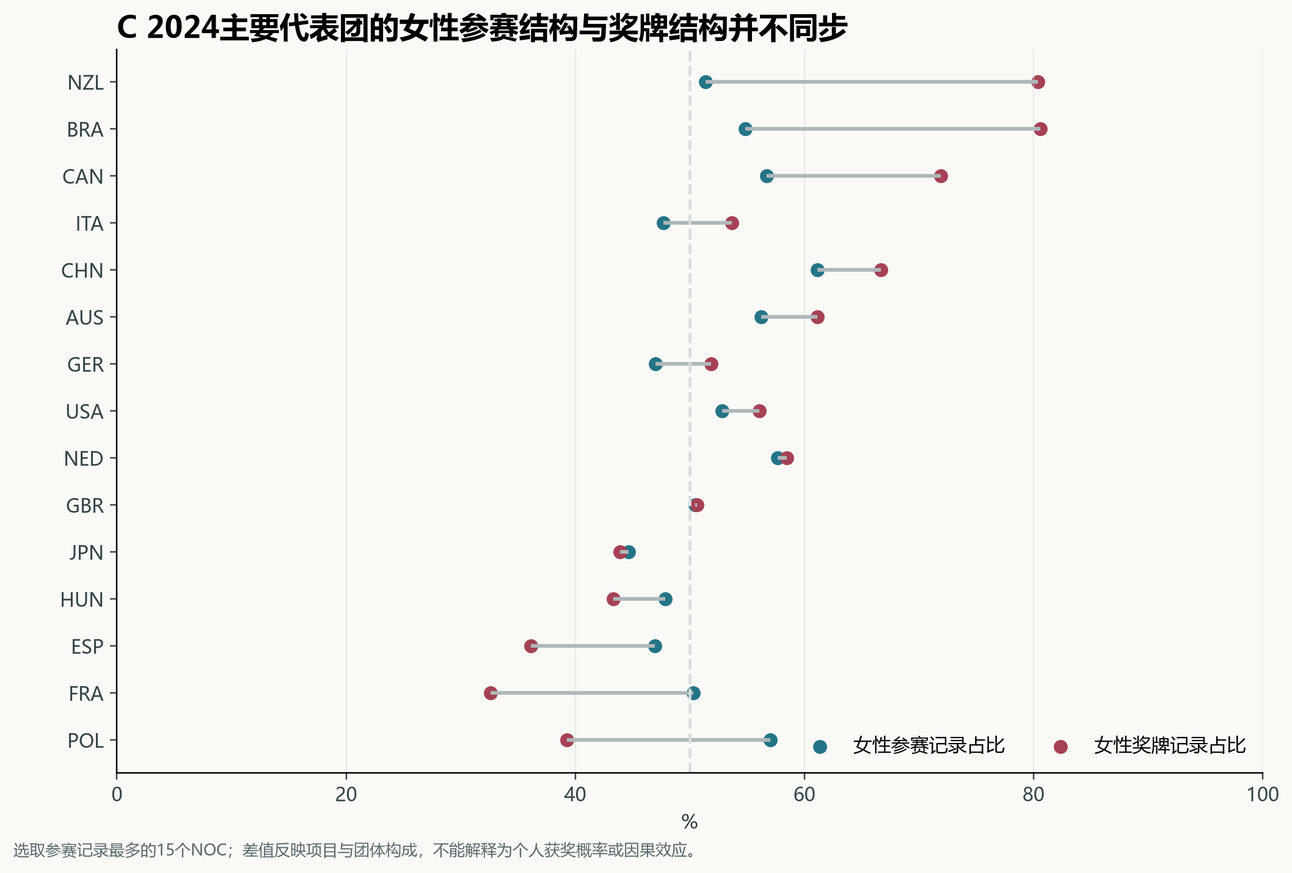
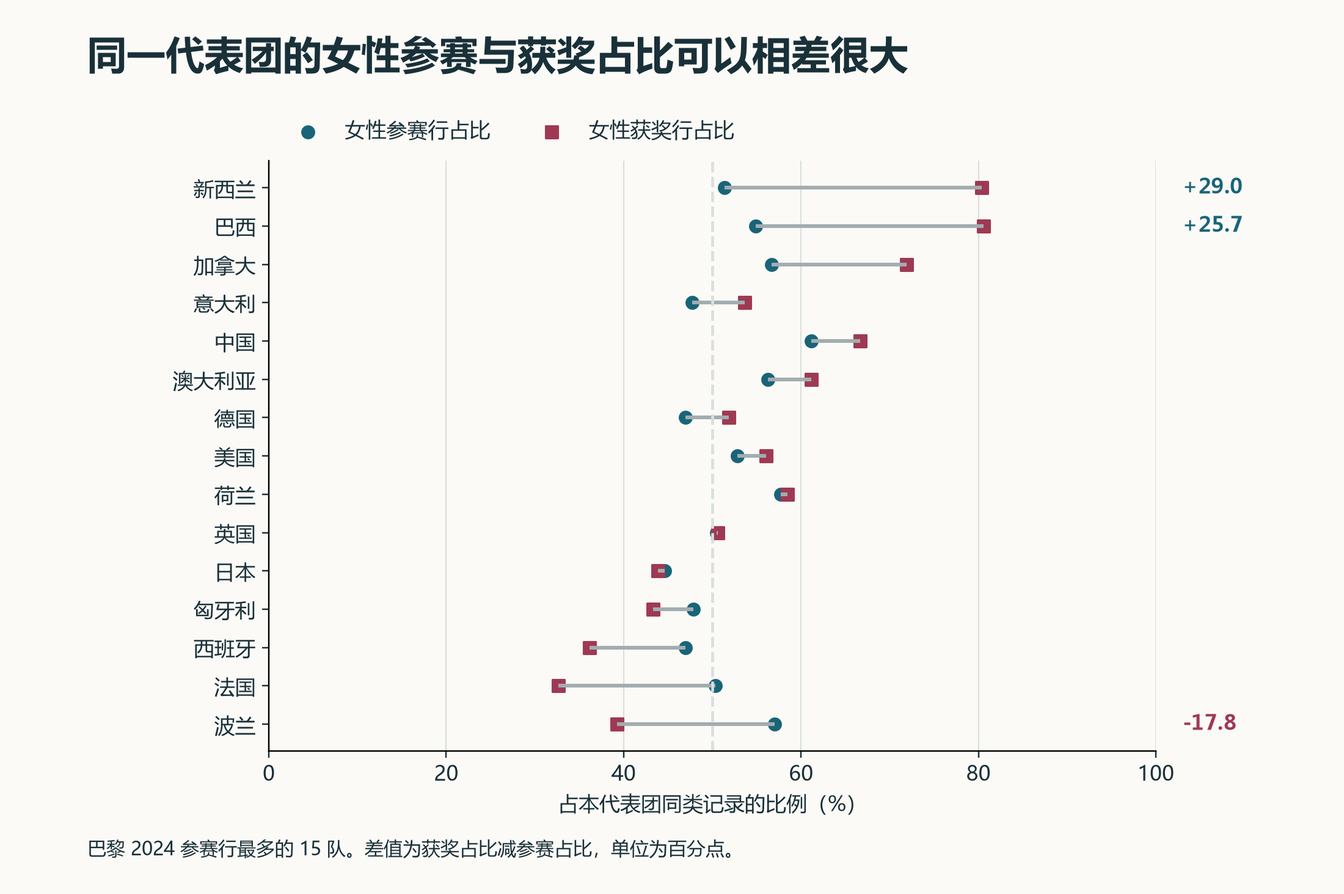
Redesign eight core figures across the four historical views

diff --git a/交付文件/任务二_百年全景/07_四视角独立交付/四视角核心图复核.html b/交付文件/任务二_百年全景/07_四视角独立交付/四视角核心图复核.html
@@ -7,23 +7,23 @@ figure{margin:20px 0 28px}figcaption{margin-top:8px;font-size:.92rem}details h1{
 .denominators li{display:grid;align-content:start;padding:12px;border-top:2px solid #479a94;background:color-mix(in srgb,currentColor 5%,transparent)}
 .denominators b{font-size:1.8rem;line-height:1.4;font-variant-numeric:tabular-nums}.denominators p{margin-bottom:0}
 </style><main><h1>百年全景四项必选视角复核</h1><p><a href="../01_报告与说明/01_百年奥运全景分析_高分版.html">返回完整报告</a></p><nav aria-label="四视角导航"><a href="#view-A">A 奖牌格局</a><a href="#view-B">B 国家兴衰</a><a href="#view-C">C 她的奥运</a><a href="#view-D">D 项目演化</a></nav><section id="view-A"><h2>A 奖牌格局</h2><p>获奖记录增长约16倍，前五代表团份额从83.9%降至41.8%。</p><p>分母为同届全部获奖运动员记录，排除1906。</p><p>独立解读含 261 个汉字，配 2 张图。<a download="" href="A_奖牌格局.md">下载解读原文</a> · <a href="../04_核心图表/A_规模扩张与奖牌集中度.png">打开核心图</a></p><details open><summary>两张图与完整解读</summary><h1>A｜奖牌格局：规模膨胀，集中度下降</h1>
-<figure><img alt="逐届规模与集中度" src="../04_核心图表/A_规模扩张与奖牌集中度.png"/><figcaption>逐届比较获奖记录总量与前五代表团份额。份额以同届全部获奖记录为分母。</figcaption></figure>
+<figure><a class="core-chart-zoom" aria-label="打开原图：逐届规模与集中度" href="../04_核心图表/A_规模扩张与奖牌集中度.png"><img alt="逐届规模与集中度" src="../04_核心图表/A_规模扩张与奖牌集中度.png"/></a><figcaption>逐届比较获奖记录总量与前五代表团份额。份额以同届全部获奖记录为分母。</figcaption></figure>
 <p>1896 年只有 380 条参赛记录、12 个代表团和 143 条运动员奖牌记录；2024 年增至 14,892 条、206 个代表团和 2,281 条。奖牌记录绝对量膨胀约 16 倍，但前五代表团在同届奖牌记录中的份额由 83.9% 降至 41.8%。因此，只看奖牌记录总数会误以为强国越来越强；改看同届份额，看到的却是奥运覆盖范围扩大后的分散化。两种读法指向不同问题，不能互相替代。早期参赛格局极窄，跨百年的绝对量比较尤其需要谨慎。</p>
-<figure><img alt="历史累计奖牌记录榜" src="../04_核心图表/A_历史累计奖牌记录榜.png"/><figcaption>历届获奖记录累计量，按运动员获奖行计数，团体项目可产生多条记录。</figcaption></figure>
+<figure><a class="core-chart-zoom" aria-label="打开原图：历史累计奖牌记录榜" href="../04_核心图表/A_历史累计奖牌记录榜.png"><img alt="历史累计奖牌记录榜" src="../04_核心图表/A_历史累计奖牌记录榜.png"/></a><figcaption>历届获奖记录累计量，按运动员获奖行计数，团体项目可产生多条记录。</figcaption></figure>
 <p>历史累计榜显示美国共有 5,597 条获奖运动员记录。这个值同时受到参赛届数、项目机会和团体人数影响，所以累计榜适合描述历史获奖记录总量，不等于官方小项奖牌榜，也不宜单独判定单届统治力。逐届榜单演变可在<a href="../05_交互总览/index.html">交互总览</a>按年份切换，观察排名与集中度如何随届次变化。</p>
 <p><strong>口径与复核。</strong> 奖牌为运动员行；同一团体获奖可贡献多条记录。排除 1906；按当届实际记录计算，不把未参赛代表团补为零。数据表：<a href="../02_数据表/A_逐届规模与集中度.csv">逐届规模与集中度</a>。</p></details></section><section id="view-B"><h2>B 国家兴衰</h2><p>早期极端份额、抵制和政体断点共同影响逐届比较。</p><p>分母为同届全部获奖运动员记录，排除1906。代表团按当届代码分列。</p><p>独立解读含 289 个汉字，配 2 张图。<a download="" href="B_国家兴衰.md">下载解读原文</a> · <a href="../04_核心图表/B_十二代表团兴衰曲线.png">打开核心图</a></p><details open><summary>两张图与完整解读</summary><h1>B｜国家兴衰：断点比平滑趋势更重要</h1>
-<figure><img alt="十二代表团逐届曲线" src="../04_核心图表/B_十二代表团兴衰曲线.png"/><figcaption>十二个代表团的同届获奖记录份额。缺席届次不补零，历史代表团代码分别保留。</figcaption></figure>
+<figure><a class="core-chart-zoom" aria-label="打开原图：十二代表团逐届曲线" href="../04_核心图表/B_十二代表团兴衰曲线.png"><img alt="十二代表团逐届曲线" src="../04_核心图表/B_十二代表团兴衰曲线.png"/></a><figcaption>十二个代表团的同届获奖记录份额。缺席届次不补零，历史代表团代码分别保留。</figcaption></figure>
 <p>十二个代表团的逐届奖牌记录份额展示了至少八个具有不同轨迹的国家与地区。美国的长期优势并非固定占比：1904 年的 81% 是早期特殊参赛格局下的极端值，战后多数届次约为 12%—16%。苏联从 1952 年起迅速进入高份额区间，1988 年之后的身份转变使曲线自然中断。东德、西德和统一后的德国分别呈现，避免把不同政体当作同一个连续主体。中国自 1984 年形成连续轨迹，2008 年约占 9.0%，2024 年约占 7.4%。日本、韩国等代表团的进阶也可在图中与同届整体规模同步观察。</p>
-<figure><img alt="时代热力图" src="../04_核心图表/B_强国时代热力图.png"/><figcaption>颜色表示同届获奖记录份额。空白表示缺少参赛记录，有参赛但零获奖的代表团份额为零。</figcaption></figure>
+<figure><a class="core-chart-zoom" aria-label="打开原图：时代热力图" href="../04_核心图表/B_强国时代热力图.png"><img alt="时代热力图" src="../04_核心图表/B_强国时代热力图.png"/></a><figcaption>颜色表示同届获奖记录份额。空白表示缺少参赛记录，有参赛但零获奖的代表团份额为零。</figcaption></figure>
 <p>热力图中的空白表示没有参赛记录，不能解释成零奖牌。1980 与 1984 年抵制潮、主场届和历史政体变化，都会扰动表面排名。作为机制核查，本报告还对主场效应进行了<a href="../04_核心图表/B_20届合成对照与稳健性.png">扩展合成对照与稳健性分析</a>：高拟合 14 案例平均差为 +2.24 个百分点，但主办权选择仍限制因果解释。</p>
 <p><strong>口径与复核。</strong> 指标为当届某代表团获奖运动员记录数除以当届全部获奖运动员记录数；历史代码分别保留，1906 排除。数据表：<a href="../02_数据表/B_十二代表团逐届份额.csv">十二代表团逐届份额</a>。</p></details></section><section id="view-C"><h2>C 她的奥运</h2><p>巴黎2024的49.1%、50.3%和45.9%分别对应参赛、获奖和女子专属小项。</p><p>排除1906。三项分母分别为全部参赛行、全部获奖行、当届全部小项。2024小项分母为329。</p><p>独立解读含 261 个汉字，配 2 张图。<a download="" href="C_她的奥运.md">下载解读原文</a> · <a href="../04_核心图表/C_女性三层平权曲线.png">打开核心图</a></p><aside class="denominators" aria-label="巴黎 2024 三个分母"><h3>巴黎 2024 · 三个分母</h3><ul><li><strong>女性参赛记录占比</strong><b>49.1%</b><span>7,312 / 14,892</span><small>女性参赛记录 ÷ 全部参赛记录</small></li><li><strong>女性获奖记录占比</strong><b>50.3%</b><span>1,147 / 2,281</span><small>女性获奖记录 ÷ 全部获奖记录</small></li><li><strong>女子专属小项占比</strong><b>45.9%</b><span>151 / 329</span><small>女子专属小项 ÷ 全部官方小项</small></li></ul><p>前两项按运动员记录行统计，同一运动员可出现多次。第三项按官方小项统计，分母含女子、男子和混合小项，分子只计女子专属小项。</p></aside><details open><summary>两张图与完整解读</summary><h1>C｜她的奥运：参赛与获奖记录接近半数，小项结构仍有差异</h1>
-<figure><img alt="女性参与、获奖与小项" src="../04_核心图表/C_女性三层平权曲线.png"/><figcaption>同看参赛行、获奖行和女子专属小项，巴黎 2024 的三种分母见本节上方。</figcaption></figure>
+<figure><a class="core-chart-zoom" aria-label="打开原图：女性参与、获奖与小项" href="../04_核心图表/C_女性三层平权曲线.png"><img alt="女性参与、获奖与小项" src="../04_核心图表/C_女性三层平权曲线.png"/></a><figcaption>同看参赛行、获奖行和女子专属小项，巴黎 2024 的三种分母见本节上方。</figcaption></figure>
 <p>百年趋势显示，女性逐步从早期缺席走向接近半数的参赛规模。2024 年女性参赛记录占 49.1%，女性奖牌记录占 50.3%，而官方 329 个小项中的女子专属小项为 151 个，占 45.9%。这三个比例测量的是不同层次：参赛机会、获奖记录和赛程设置。女性奖牌记录超过一半，并不表示每一类项目都已经实现完全对称；团体项目人数、混合小项和项目组合都会改变统计结果。用三条线同时表达，能避免把一个接近 50% 的数字误当作全部答案。</p>
-<figure><img alt="2024代表团女性结构差" src="../04_核心图表/C_2024代表团女性结构差.png"/><figcaption>在各代表团内部比较女性参赛行占比与女性获奖行占比，两个占比分别以该团的参赛行和获奖行为分母。</figcaption></figure>
+<figure><a class="core-chart-zoom" aria-label="打开原图：2024代表团女性结构差" href="../04_核心图表/C_2024代表团女性结构差.png"><img alt="2024代表团女性结构差" src="../04_核心图表/C_2024代表团女性结构差.png"/></a><figcaption>在各代表团内部比较女性参赛行占比与女性获奖行占比，两个占比分别以该团的参赛行和获奖行为分母。</figcaption></figure>
 <p>代表团内部也有反例：在获奖记录较多的代表团中，新西兰女性获奖记录占比比女性参赛记录占比高约 29.0 个百分点，巴西高约 25.7 个百分点；法国和波兰则分别低约 17.7 个百分点。这些差值更适合作为项目组合差异的提示，不应直接解释为国家制度优劣。</p>
 <p><strong>口径与复核。</strong> 历史参与和获奖按原始 Sex 字段对应的运动员记录计算；2024 小项属性使用任务一官方 329 项表，女子专属、男子专属和混合小项分列。数据表：<a href="../02_数据表/C_女性参与获奖与小项.csv">女性参与获奖与小项</a>、<a href="../02_数据表/C_2024代表团女性结构.csv">2024代表团女性结构</a>。</p></details></section><section id="view-D"><h2>D 项目演化</h2><p>统一运动名称再判断出现、缺席和重返，2020年泛化字段不进入小项趋势。</p><p>排除1906，按归一运动家族识别出现状态。1896–2016为历史小项估计，2020留空，2024用329小项结果。</p><p>独立解读含 282 个汉字，配 2 张图。<a download="" href="D_项目演化.md">下载解读原文</a> · <a href="../04_核心图表/D_小项增长与项目更替.png">打开核心图</a></p><details open><summary>两张图与完整解读</summary><h1>D｜项目演化：扩容、退出与重返</h1>
-<figure><img alt="小项增长与项目更替" src="../04_核心图表/D_小项增长与项目更替.png"/><figcaption>历史小项按赛题 Event 字段计，2020 小项字段泛化，2024 采用官方小项结构。</figcaption></figure>
+<figure><a class="core-chart-zoom" aria-label="打开原图：小项增长与项目更替" href="../04_核心图表/D_小项增长与项目更替.png"><img alt="小项增长与项目更替" src="../04_核心图表/D_小项增长与项目更替.png"/></a><figcaption>历史小项按赛题 Event 字段计，2020 小项字段泛化，2024 采用官方小项结构。</figcaption></figure>
 <p>按可比的清洗后 Event 唯一值估计，1896 年约 43 个小项，1920 年约 158 个，1984 年约 221 个，2000 年约 300 个；2024 年使用官方补充表，确认为 329 个。这里没有把 2020 年的原始 Event 值硬接进趋势，因为该字段从该届起出现泛化，会造成虚假的小项数量断崖。增长曲线也不是只增不减：拔河、槌球、马球和艺术竞赛留下历史痕迹；跆拳道、七人制橄榄球、滑板、冲浪和霹雳舞体现近年项目更新。花样滑冰曾出现在 1908、1920 年夏季奥运会，冰球也曾出现在 1920 年夏季奥运会，提醒我们不要用今天的“夏季／冬季”划分倒推早期赛程。</p>
-<figure><img alt="新增、退出与重返" src="../04_核心图表/D_项目新增退出重返流向.png"/><figcaption>按归并后的项目大类识别新增、退出和重返。退出表示下一届未观察到，后续仍可能重返。</figcaption></figure>
+<figure><a class="core-chart-zoom" aria-label="打开原图：新增、退出与重返" href="../04_核心图表/D_项目新增退出重返流向.png"><img alt="新增、退出与重返" src="../04_核心图表/D_项目新增退出重返流向.png"/></a><figcaption>按归并后的项目大类识别新增、退出和重返。退出表示下一届未观察到，后续仍可能重返。</figcaption></figure>
 <p>项目生命周期图将首次出现、上届缺席后重返和本届之后退出分开显示。它补足了总量曲线的盲点：即使总小项数变化很小，项目组合仍可能明显更替。图中的“退出”是基于所用数据在下一届未出现的操作性定义，不等于国际奥委会永久取消该运动。</p>
 <p><strong>口径与复核。</strong> 1896—2016 年是 Event 字段的历史估计值，2020 年留空，2024 年取官方 329 项；体育大类按任务一归一映射。数据表：<a href="../02_数据表/D_逐届小项数量.csv">逐届小项数量</a>、<a href="../02_数据表/D_代表项目出现矩阵.csv">代表项目出现矩阵</a>、<a href="../02_数据表/D_项目新增退出重返.csv">新增退出重返</a>。</p></details></section></main></html>

diff --git a/项目工作区/scripts/publish_task2_core_figures.py b/项目工作区/scripts/publish_task2_core_figures.py
@@ -1,0 +1,200 @@
+"""Regenerate eight Task 2 figures from the published data tables."""
+from pathlib import Path
+from html import escape
+import re
+
+import matplotlib
+matplotlib.use('Agg')
+import matplotlib.pyplot as plt
+from matplotlib.colors import LinearSegmentedColormap, ListedColormap
+from matplotlib.lines import Line2D
+from matplotlib.patches import Patch
+import numpy as np
+import pandas as pd
+
+from task2_localization import NOC_ZH, SPORT_ZH
+
+ROOT = Path(__file__).resolve().parents[2] / '交付文件'
+TASK = ROOT / '任务二_百年全景'
+TABLE = TASK / '02_数据表'
+FIG = TASK / '04_核心图表'
+PAPER, INK, GRID = '#fbfaf6', '#193039', '#d8dfdf'
+BLUE, RED, GOLD = '#196478', '#9f3953', '#8a5c18'
+YEARS = [1896,1920,1948,1972,2000,2024]
+plt.rcParams.update({'font.family':'Microsoft YaHei','font.size':11,
+    'figure.facecolor':PAPER,'axes.facecolor':PAPER,'text.color':INK,
+    'axes.labelcolor':INK,'xtick.color':INK,'ytick.color':INK,
+    'axes.spines.top':False,'axes.spines.right':False,'axes.unicode_minus':False})
+
+def csv(name,index=False):
+    return pd.read_csv(TABLE/name,index_col=0 if index else None)
+
+def figure(title,note,height=5.4,left=.14,right=.94,bottom=.16,top=.82,grid=(1,1),sharex=False,sharey=False):
+    fig,ax=plt.subplots(*grid,figsize=(10,height),sharex=sharex,sharey=sharey)
+    fig.subplots_adjust(left=left,right=right,bottom=bottom,top=top,hspace=.46,wspace=.20)
+    fig.text(.065,.96,title,ha='left',va='top',fontsize=21,weight='bold')
+    fig.text(.065,.038,note,ha='left',va='bottom',fontsize=10)
+    return fig,ax
+
+def save(fig,name):
+    fig.savefig(FIG/f'{name}.png',dpi=220,facecolor=PAPER)
+    plt.close(fig)
+
+def grid(ax,axis='y'):
+    ax.set_axisbelow(True)
+    ax.grid(axis=axis,color=GRID,lw=.7)
+
+def timeline(ax):
+    ax.set_xlim(1894,2028)
+    ax.set_xticks(YEARS)
+    ax.set_xlabel('奥运届次年份')
+
+a=csv('A_逐届规模与集中度.csv',True)
+fig,(total,share)=figure('奖牌记录增加，前五代表团份额下降',
+    f"参赛记录：{a.loc[1896,'participation_records']:,} → {a.loc[2024,'participation_records']:,} 行。排除 1906；团体获奖成员各计一行。",6.7,grid=(2,1),sharex=True)
+total.plot(a.index,a.medal_records,color=BLUE,lw=2.4)
+total.set_ylabel('获奖记录数（行）')
+total.annotate(f"{a.loc[2024,'medal_records']:,.0f} 行",(2024,a.loc[2024,'medal_records']),xytext=(-12,17),textcoords='offset points',ha='right',weight='bold',arrowprops={'arrowstyle':'-','color':BLUE})
+share.plot(a.index,a.top5_share*100,color=RED,lw=2.4)
+share.set_ylabel('前五代表团份额（%）')
+share.set_ylim(30,100)
+for year,offset,align in [(1896,(5,8),'left'),(2024,(-4,-17),'right')]:
+    share.annotate(f'{a.loc[year,"top5_share"]:.1%}',(year,a.loc[year,'top5_share']*100),
+                   xytext=offset,textcoords='offset points',ha=align,color=RED,weight='bold')
+for ax in (total,share): grid(ax)
+timeline(share)
+save(fig,'A_规模扩张与奖牌集中度')
+
+raw=ROOT/'任务一_数据体检/02_交付数据/归一数据_保留原始字段.csv.gz'
+medals=pd.read_csv(raw,usecols=['include_main','is_medal','NOC'])
+cumulative=medals.loc[medals.include_main & medals.is_medal,'NOC'].value_counts().head(15).sort_values()
+fig,ax=figure('历届累计获奖记录最多的 15 个代表团',
+    '数据：任务一归一记录，排除 1906。历史代表团代码独立统计。',6.6,left=.21)
+bars=ax.barh([NOC_ZH.get(n,n) for n in cumulative.index],cumulative,color=BLUE)
+ax.bar_label(bars,labels=[f'{n:,}' for n in cumulative],padding=5,fontsize=10)
+ax.set_xlim(0,cumulative.max()*1.22); ax.set_xlabel('累计获奖运动员记录（行）')
+grid(ax,'x')
+save(fig,'A_历史累计奖牌记录榜')
+
+b=csv('B_十二代表团逐届份额.csv')
+assert b.loc[~b.present,'medal_share'].isna().all()
+order=b.NOC.unique().tolist()
+bmatrix=b.pivot(index='NOC',columns='Year',values='medal_share').reindex(order)*100
+fig,axes=figure('缺席与历史身份变化会让份额曲线断开',
+    '缺席留空；参赛零获奖用空心圆标于零线。三角表示超出 35%，数字为实际值。',8,left=.10,right=.95,bottom=.12,top=.80,grid=(4,3),sharex=True,sharey=True)
+fig.text(.065,.865,'同届获奖记录份额（%）   ｜   浅金区域：1980、1984 抵制届次',fontsize=11)
+for axis,(noc,row) in zip(axes.flat,bmatrix.iterrows()):
+    axis.axvspan(1979,1985,color='#efdfb4',zorder=0)
+    axis.plot(row.index,row,color=BLUE,lw=1.6,marker='.',ms=4)
+    zero=row[row.eq(0)]
+    axis.scatter(zero.index,zero,s=15,facecolors=PAPER,edgecolors=INK,zorder=4,clip_on=False)
+    for year,value in row[row.gt(35)].items():
+        axis.scatter(year,34,marker='^',s=22,color=RED,zorder=5)
+        axis.annotate(f'{value:.0f}%',(year,34),xytext=(3,-4),textcoords='offset points',ha='left',va='top',fontsize=9,color=RED)
+    axis.set_title(f'{NOC_ZH.get(noc,noc)} · {noc}',loc='left',fontsize=11)
+    axis.set_ylim(0,36); axis.set_yticks([0,15,30]); axis.set_xlim(1894,2028)
+    axis.set_xticks([1896,1948,1984,2024])
+    grid(axis)
+save(fig,'B_十二代表团兴衰曲线')
+
+fig,ax=figure('奖牌记录份额在不同代表团之间接续',
+    '浅金边框：1980、1984；独立保留 URS、GDR、FRG、GER。超过 35% 的色阶饱和。',5.9,left=.22,right=.90,bottom=.20)
+cmap=LinearSegmentedColormap.from_list('share',['#ffffff','#82b8c1',BLUE,'#162f45'])
+cmap.set_bad('#d0d5d8')
+im=ax.imshow(bmatrix,aspect='auto',interpolation='nearest',cmap=cmap,vmin=0,vmax=35)
+for index,year in enumerate(bmatrix.columns):
+    if year in (1980,1984):
+        ax.axvspan(index-.5,index+.5,fill=False,edgecolor=GOLD,lw=1.4)
+ax.set_yticks(range(len(order)),[f'{NOC_ZH.get(n,n)} {n}' for n in order])
+ix=[i for i,y in enumerate(bmatrix.columns) if y in YEARS or y in (1980,1984)]
+ax.set_xticks(ix,[bmatrix.columns[i] for i in ix],rotation=55,ha='right')
+fig.colorbar(im,ax=ax,pad=.025,label='同届获奖记录份额（%）')
+ax.legend(handles=[Patch(facecolor='#d0d5d8',label='缺席'),Patch(facecolor='white',edgecolor=GRID,label='参赛但零获奖')],
+          frameon=False,ncol=2,loc='lower left',bbox_to_anchor=(0,1))
+save(fig,'B_强国时代热力图')
+
+f=csv('C_女性参与获奖与小项.csv',True)
+metrics=[('participation_share','女性参赛记录',BLUE,'-','o',a.loc[2024,'participation_records']),
+         ('medal_share','女性获奖记录',RED,'--','s',a.loc[2024,'medal_records']),
+         ('women_only_event_share','女子专属小项',GOLD,':','D',f.loc[2024,'event_units'])]
+fig,ax=figure('巴黎 2024：三个分母，三种女性占比',
+    '记录按运动员行；历史小项为 Event 代理。2020 小项缺值；2024 来自官方结构表。',6.2,right=.68,top=.79)
+for i,(column,label,color,ls,marker,total) in enumerate(metrics):
+    values=f[column]*100
+    ax.plot(values.index,values,color=color,ls=ls,lw=2.3)
+    value=f.loc[2024,column]
+    ax.scatter(2024,value*100,color=color,marker=marker,s=49,zorder=4)
+    count=round(value*total)
+    assert np.isclose(count/total,value)
+    y=.71-i*.18
+    fig.text(.72,y,label,fontsize=11,color=color,weight='bold')
+    fig.text(.72,y-.060,f'{value:.1%}',fontsize=20,color=color,weight='bold')
+    fig.text(.72,y-.102,f'{count:,} / {int(total):,}',fontsize=11)
+ax.legend(handles=[Line2D([0],[0],color=c,ls=ls,marker=m,label=l) for _,l,c,ls,m,_ in metrics],
+          frameon=False,ncol=2,loc='upper left')
+ax.set_ylabel('占比（%）'); ax.set_ylim(0,65)
+ax.axhline(50,color=GRID,lw=.9)
+grid(ax); timeline(ax)
+save(fig,'C_女性三层平权曲线')
+
+c=csv('C_2024代表团女性结构.csv',True).nlargest(15,'records').sort_values('gap_pp')
+fig,ax=figure('同一代表团的女性参赛与获奖占比可以相差很大',
+    '巴黎 2024 参赛行最多的 15 队。差值为获奖占比减参赛占比，单位为百分点。',6.65,left=.20,right=.86)
+y=np.arange(len(c))
+x=c.female_participation_share*100; z=c.female_medal_share*100
+ax.hlines(y,x,z,color='#a2adb1',lw=2)
+ax.scatter(x,y,c=BLUE,s=42,marker='o',label='女性参赛行占比')
+ax.scatter(z,y,c=RED,s=43,marker='s',label='女性获奖行占比')
+extremes=set(c.gap_pp.abs().nlargest(3).index)
+for index,(noc,value) in enumerate(c.gap_pp.items()):
+    if noc in extremes:
+        ax.text(103,index,f'{value:+.1f}',va='center',fontsize=11,weight='bold',color=RED if value<0 else BLUE)
+ax.axvline(50,color=GRID,ls='--')
+ax.set_yticks(y,[NOC_ZH.get(n,n) for n in c.index])
+ax.set_xlim(0,100); ax.set_xlabel('占本代表团同类记录的比例（%）')
+ax.legend(frameon=False,ncol=2,loc='lower left',bbox_to_anchor=(0,1))
+grid(ax,'x')
+save(fig,'C_2024代表团女性结构差')
+
+d=csv('D_逐届小项数量.csv',True)
+presence=csv('D_代表项目出现矩阵.csv',True)
+fig,(ax,matrix)=figure('小项持续扩容，运动大类仍有进出',
+    '历史小项按 Event 去重；2020 字段泛化。下图按运动大类，有参赛记录即着色。',7.5,left=.23,right=.95,bottom=.17,grid=(2,1))
+ax.plot(d.loc[:2016].index,d.loc[:2016,'event_units'],color=BLUE,lw=2.3)
+ax.scatter(2024,d.loc[2024,'event_units'],marker='D',color=RED,s=55,zorder=4)
+ax.axvline(2020,color=GOLD,ls=':',lw=1.2)
+ax.set_ylim(0,410); ax.set_xlim(1896,2030); ax.set_xticks([1896,1948,1984,2016,2024])
+ax.annotate('2020\n小项留空',xy=(2020,145),xytext=(1997,130),arrowprops={'arrowstyle':'-','color':GOLD},color=GOLD,ha='center')
+ax.annotate(f"2024 官方 {d.loc[2024,'event_units']:.0f} 项",xy=(2024,d.loc[2024,'event_units']),xytext=(-9,12),textcoords='offset points',ha='right',color=RED)
+ax.set_ylabel('小项数'); grid(ax)
+matrix.imshow(presence,aspect='auto',interpolation='nearest',cmap=ListedColormap(['#e9eceb',BLUE]),vmin=0,vmax=1)
+matrix.set_yticks(range(len(presence)),[SPORT_ZH.get(k,k) for k in presence.index],fontsize=8.5)
+t=[i for i,k in enumerate(presence.columns) if int(k) in YEARS]
+matrix.set_xticks(t,[presence.columns[i] for i in t]); matrix.set_xlabel('奥运届次年份')
+matrix.legend(handles=[Patch(color=BLUE,label='观察到'),Patch(color='#e9eceb',label='未观察到')],frameon=False,ncol=2,loc='lower left',bbox_to_anchor=(0,1))
+save(fig,'D_小项增长与项目更替')
+
+life=csv('D_项目新增退出重返.csv',True)
+fig,(mix,exit_ax)=figure('运动大类既有新增，也有退出和重返',
+    '退出指下一届未观察到。2024 是资料末届，退出状态留空。2020 沿用 Sport 大类。',6.8,grid=(2,1),sharex=True)
+mix.stackplot(life.index,life['连续保留'],life['新增'],life['重返'],labels=['连续保留','首次出现','重返'],colors=[BLUE,'#d6a04e','#97718e'])
+mix.legend(frameon=False,ncol=3,loc='upper left')
+mix.set_ylabel('当届运动大类数')
+exit_ax.bar(life.index[:-1],life['本届后退出'].iloc[:-1],width=2.6,color=RED)
+exit_ax.annotate('资料末届\n退出待观察',(2024,0),xytext=(-3,24),textcoords='offset points',ha='right',color=GOLD)
+exit_ax.set_ylabel('本届后退出的运动大类数')
+for ax in (mix,exit_ax): grid(ax)
+timeline(exit_ax)
+save(fig,'D_项目新增退出重返流向')
+
+
+# Keep direct access to native resolution on narrow screens and in offline review.
+review=TASK/'07_四视角独立交付/四视角核心图复核.html'
+html=review.read_text(encoding='utf-8')
+html=re.sub(r'<a class="core-chart-zoom"[^>]*>(<img [^>]+/>)</a>',r'\1',html)
+def enlarge(match):
+    src,alt=re.search(r'src="([^"]+)"',match[1])[1],re.search(r'alt="([^"]+)"',match[1])[1]
+    return f'<figure><a class="core-chart-zoom" aria-label="打开原图：{escape(alt)}" href="{src}">{match[1]}</a>'
+html,count=re.subn(r'<figure>(<img [^>]+/>)',enlarge,html)
+assert count==8
+review.write_text(html,encoding='utf-8')

diff --git a/项目工作区/scripts/task2_pdf.py b/项目工作区/scripts/task2_pdf.py
@@ -65,10 +65,13 @@ def make_report():
     c.showPage()
     pages=[
       ('A 规模与集中度','规模扩张没有带来同等程度的奖牌垄断','A_规模扩张与奖牌集中度.png','1896年只有380条参赛记录、12个代表团和143条运动员奖牌记录；到2024年分别达到14,892条、206个和2,281条。与此同时，前五代表团奖牌记录份额由83.9%下降到41.8%。绝对奖牌记录随项目与团体规模膨胀，但相对统治力长期下降。','运动员记录口径；前五份额用于同届比较，不等于官方小项奖牌份额。'),
-      ('B 强国兴衰','历史不是连续曲线，而是战争、抵制与政体变迁留下的断点','B_十二代表团兴衰曲线.png','USA在1904年达到81%的异常高位，战后多数届次约为12%至16%；URS在1952年登场后迅速进入高位；CHN自1984年形成连续轨迹，2008年约9.0%，2024年约7.4%。将历史政体强行拼接，会把制度断点误写成平滑增长。','同届奖牌记录份额；缺席留空；纵轴35%，超限值用三角标注。'),
+      ('A 累计记录','累计获奖记录前十五','A_历史累计奖牌记录榜.png','累计获奖量同时受参赛历史与团体项目人数影响。美国居首，苏联与德国分别按历史代码记录。','统计单位为获奖运动员记录行。'),
+      ('B 强国兴衰','历史不是连续曲线，而是战争、抵制与政体变迁留下的断点','B_十二代表团兴衰曲线.png','USA在1904年达到81%的异常高位，战后多数届次约为12%至16%；URS在1952年起出现连续参赛记录并进入高位；CHN自1984年形成连续轨迹，2008年约9.0%，2024年约7.4%。将历史政体强行拼接，会把制度断点误写成平滑增长。','同届奖牌记录份额；缺席留空；纵轴35%，超限值用三角标注。'),
+      ('B 时代接力','同届获奖记录份额的代表团热力图','B_强国时代热力图.png','与趋势图使用相同的代表团顺序和年份范围。灰色表示无参赛记录，白色表示参赛但零获奖，金色框标记1980和1984抵制届次。','色阶上限35%，分母为同届全部获奖记录。'),
       ('B 准实验检验','匹配DID显示主办届存在稳定的相对提升','B_主场效应准实验检验.png','九个现代主办案例逐一匹配五个前届奖牌份额接近的非主办代表团。主办国前后变化减去匹配组同期变化后，平均DID为+2.70个百分点；案例自助法95%区间为[1.84, 3.59]。五万次组内随机指派未产生同等极端均值，前趋势平均差为0.24个百分点。证据比简单前后比较更强，但主办权并非随机，不能无条件外推为因果。','匹配变量为前届奖牌记录份额；九个案例、小样本、未控制体育投入与资格扩张。结论定位为准实验关联证据。'),
       ('B 扩展合成对照','扩展样本与严格敏感性检验仍支持正向关联','B_20届合成对照与稳健性.png','1948至2024年整理20个候选主办届，其中17届具备三个主办前届次的连续信息，14届达到严格的前拟合质量阈值。每届使用前三届奖牌份额与参赛份额拟合非负合成权重，并排除事件窗口内成为东道主的供体。高拟合样本的平均主办届差为+2.24个百分点，案例自助法95%区间为[1.30, 3.28]；剔除1956双城及1980、1984抵制届后仍为+2.52个百分点。','合成对照提高反事实可比性；后续路径使用完整平衡窗口。主办权仍非随机，不作自然实验或随机试验解释。'),
       ('C 女性平权','人数接近平权，不等于项目机会结构完全对称','C_女性三层平权曲线.png','2024年女性参赛记录占49.1%，女性奖牌记录占50.3%，但官方329个小项中女子专属小项为151个，占45.9%。混合小项、团体人数与项目设置使参赛、获奖和小项三种比例出现差异；三层指标共同展示进展，也保留结构性问题。','参与与获奖按主表Sex字段；2024小项性别属性来自官方补充表。'),
+      ('C 代表团结构','同队女性参赛和获奖占比的差','C_2024代表团女性结构差.png','选择参赛记录最多的十五队，分别计算各队女性参赛占比与获奖占比。右侧标出差值绝对值最大的三队。','差值单位为百分点，基于记录行。'),
       ('D 项目演化','奥运项目表在扩容，也在持续退出与重返','D_项目新增退出重返流向.png','项目体系并非机械累加。早期更替频繁，随着制度成熟，连续保留成为主流；但近年仍可观察到新增、退出与重返。艺术比赛等历史项目消失，城市文化与青年项目进入。项目表是传统、全球普及度、性别平衡和青年吸引力之间的动态配置。','按归一体育大类识别首次出现、上届缺席后的重返及下届缺席。'),
       ('D 小项数量','从43到329：扩容主线中的口径控制','D_小项增长与项目更替.png','可比口径下，小项数从1896年的约43个增至1920年的158个、1984年的221个、2000年的300个，2024年达到官方329个。2020年留空是主动控制：原始Event已泛化，直接计数会制造虚假断崖。宁可披露不可比，也不把错误精确包装成趋势。','1896至2016按清洗后Event唯一值；2020不计；2024采用官方329项表。')]
     p=3
@@ -106,4 +109,8 @@ def make_poster():
     c.drawString(56,50,'1896—2024｜运动员记录口径｜排除1906｜2024小项采用官方329项表｜张子涵60% · 陈旭40%')
     c.save()
 
-make_report(); make_poster(); print(REPORT); print(POSTER)
+if __name__ == "__main__":
+    make_report()
+    make_poster()
+    print(REPORT)
+    print(POSTER)

diff --git a/项目工作区/scripts/sync_task2_answer_pdf_figures.py b/项目工作区/scripts/sync_task2_answer_pdf_figures.py
@@ -1,0 +1,57 @@
+"""Update Task 2 figures in the locally held, paginated formal answer."""
+from io import BytesIO
+from pathlib import Path
+from tempfile import TemporaryDirectory
+
+from PIL import Image, ImageOps
+import pymupdf
+
+ROOT = Path(__file__).resolve().parents[2] / '交付文件'
+ANSWER = ROOT / '最终提交材料/数说奥运_晓组织_正式答卷.pdf'
+FIGURES = ROOT / '任务二_百年全景/04_核心图表'
+NAMES = {
+    'A1':'A_规模扩张与奖牌集中度', 'A2':'A_历史累计奖牌记录榜',
+    'B1':'B_十二代表团兴衰曲线', 'B2':'B_强国时代热力图',
+    'C1':'C_女性三层平权曲线', 'C2':'C_2024代表团女性结构差',
+    'D1':'D_小项增长与项目更替', 'D2':'D_项目新增退出重返流向',
+}
+
+with TemporaryDirectory(dir=ANSWER.parent) as tmp:
+    candidate=Path(tmp)/ANSWER.name
+    with pymupdf.open(ANSWER) as doc:
+        assert len(doc)==20
+        before=[page.get_text() for page in doc]
+        targets={}
+        for page in doc:
+            images=page.get_image_info(xrefs=True)
+            for label in NAMES:
+                caption=page.search_for('图 '+label+'｜')
+                if not caption:
+                    continue
+                assert label not in targets
+                y=min(box.y0 for box in caption)
+                assert max(box.y0 for box in caption)-y<5
+                preceding=[i for i in images if i['bbox'][3] <= y+2 and i['xref']]
+                nearest=max(preceding,key=lambda i:i['bbox'][3])
+                assert 0 <= y-nearest['bbox'][3]+2 < 28
+                targets[label]=(page.number,nearest)
+        assert targets.keys()==NAMES.keys()
+        assert len({i['xref'] for _,i in targets.values()})==8
+        affected={n for n,_ in targets.values()}
+        unchanged={page.number:page.get_pixmap(dpi=52).digest for page in doc if page.number not in affected}
+        for label,(page,old) in targets.items():
+            x0,y0,x1,y1=old['bbox']
+            # Use the printed box ratio, with an even white margin to preserve labels.
+            width=2200
+            dims=(width,round(width*(y1-y0)/(x1-x0)))
+            with Image.open(FIGURES/f'{NAMES[label]}.png') as im:
+                fitted=ImageOps.pad(im.convert('RGB'),dims,color='#fbfaf6')
+                output=BytesIO()
+                fitted.save(output,format='PNG')
+            doc[page].replace_image(old['xref'],stream=output.getvalue())
+        doc.save(candidate,garbage=3,deflate=True)
+    with pymupdf.open(candidate) as doc:
+        assert len(doc)==20 and [p.get_text() for p in doc]==before
+        assert all(doc[n].get_pixmap(dpi=52).digest==fingerprint for n,fingerprint in unchanged.items())
+    candidate.replace(ANSWER)
+print('Eight Task 2 figures updated. 20 pages; all text and other pages verified.')

diff --git a/项目交接_请新AI先读.md b/项目交接_请新AI先读.md
@@ -1130,3 +1130,5 @@ LA28 资格快照公开逐席台账和官方最终报名节点，分别显示已
 预测主榜旁展示2024留出误差、区间实测覆盖和资格台账；历史主报告并列芬兰金牌补录及伦敦划艇递补案例。重建页面后运行 publish_review_readouts.py。
 
 本地正式答卷 PDF 已移出末页提交核对清单并验为20页，Word重导出后运行 check_answer_pdf_page_limit.py，提交前检查独立维护。
+
+A–D八张核心图已重绘并同步四视角复核页。先生成任务二数据，再运行 publish_task2_core_figures.py。任务二专题 PDF 与20页模板答卷在本地同步；模板答卷重导出后先查页数，再运行 sync_task2_answer_pdf_figures.py。

diff --git a/README.md b/README.md
@@ -549,3 +549,5 @@ LA28 资格快照公开逐席台账和官方最终报名节点，分别显示已
 预测主榜旁展示2024留出误差、区间实测覆盖和资格台账；历史主报告并列芬兰金牌补录及伦敦划艇递补案例。重建页面后运行 publish_review_readouts.py。
 
 本地正式答卷 PDF 已移出末页提交核对清单并验为20页，Word重导出后运行 check_answer_pdf_page_limit.py，提交前检查独立维护。
+
+A–D八张核心图已重绘并同步四视角复核页。先生成任务二数据，再运行 publish_task2_core_figures.py。任务二专题 PDF 与20页模板答卷在本地同步；模板答卷重导出后先查页数，再运行 sync_task2_answer_pdf_figures.py。
